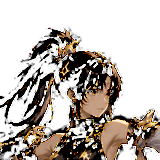
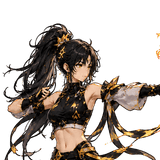
Re-shoot Zera with fresh, higher-fidelity reference art
Same treatment as Kharos's §9.36-9.37 re-shoot: the user supplied a
much higher-fidelity reference (clean white background, dynamic
pointing pose with her Spark-attack lightning effect) rather than
asking for another alpha patch on the old low-res sprite.

Keyed with the white-background pipeline. Verified color
decontamination against both black and white test backgrounds first
(per §9.36's glow-blowout lesson) — Zera's gold spark effects are
mostly hard-edged shapes rather than soft diffuse glow, so
decontamination came out clean and was kept, recovering richer color
than raw alpha would. Applied the same hard alpha snap (>=30 fully
opaque) already proven on Kharos/Orin on top of it. No flip needed —
her whole pose (gaze, torso, front foot, hair) already leans toward
her own pointing hand, an unambiguous facing-right in the source art.

Verified via Playwright in a practice match against the real
battlefield background: both the ally and enemy copy read as fully
solid and richly colored; zero console errors. Full pipeline (tsc -b,
oxlint, 75-test Vitest suite, vite build, cap sync android) passes.
sharp was a temporary --no-save dev dependency, uninstalled after use.

diff --git a/DESIGN.md b/DESIGN.md
@@ -2665,3 +2665,40 @@ and purple glow are both still intact; zero console errors. Full
 pipeline (`tsc -b`, `oxlint`, 75-test Vitest suite, `vite build`,
 `cap sync android`) passes. `sharp` was a temporary `--no-save` dev
 dependency, uninstalled after use.
+
+### 9.38 Zera gets the same wholesale re-shoot as Kharos
+
+Following §9.36's Kharos precedent, the user supplied a fresh, much
+higher-fidelity reference image for Zera too (1166×1349, clean white
+background, dynamic pointing pose with her Spark-attack lightning
+effect) and asked for the same treatment rather than another alpha
+patch on the old low-res sprite this project had been repeatedly
+re-fixing since §9.34.
+
+Keyed with the white-background pipeline (distance-from-white ramp,
+same as Sorrow/Cragor/§9.37's Kharos re-key). Tested color
+decontamination against both black and white backgrounds first, same
+as always since §9.36's glow-blowout bug — unlike Kharos, Zera's gold
+spark effects are mostly hard-edged shapes rather than soft diffuse
+glow, and decontamination came out clean on both test backgrounds, so
+kept it this time (recovers richer, more saturated color than the raw
+alpha would). Applied on top of it the same hard alpha snap (≥30 →
+fully opaque) already proven on Kharos/Orin, so the "still see-through"
+failure mode from §9.35-9.36 couldn't recur here either.
+
+No flip needed — unlike Kharos's ambiguous static pose, Zera's whole
+body is dynamically oriented toward her own outstretched pointing hand
+(gaze, torso, front foot, and hair all lean the same direction), an
+unambiguous "facing right" already in the source art.
+
+This is now the fourth hero (after Sorrow, Cragor, Kharos) with a fully
+re-shot sprite/portrait/card-art trio rather than a patched original —
+each time because the user supplied real replacement art, never
+speculatively.
+
+Verified via Playwright in a practice match against the real
+battlefield background: both the ally and mirrored-enemy copy of Zera
+read as fully solid and richly colored, not translucent; zero console
+errors. Full pipeline (`tsc -b`, `oxlint`, 75-test Vitest suite,
+`vite build`, `cap sync android`) passes. `sharp` was a temporary
+`--no-save` dev dependency, uninstalled after use.
